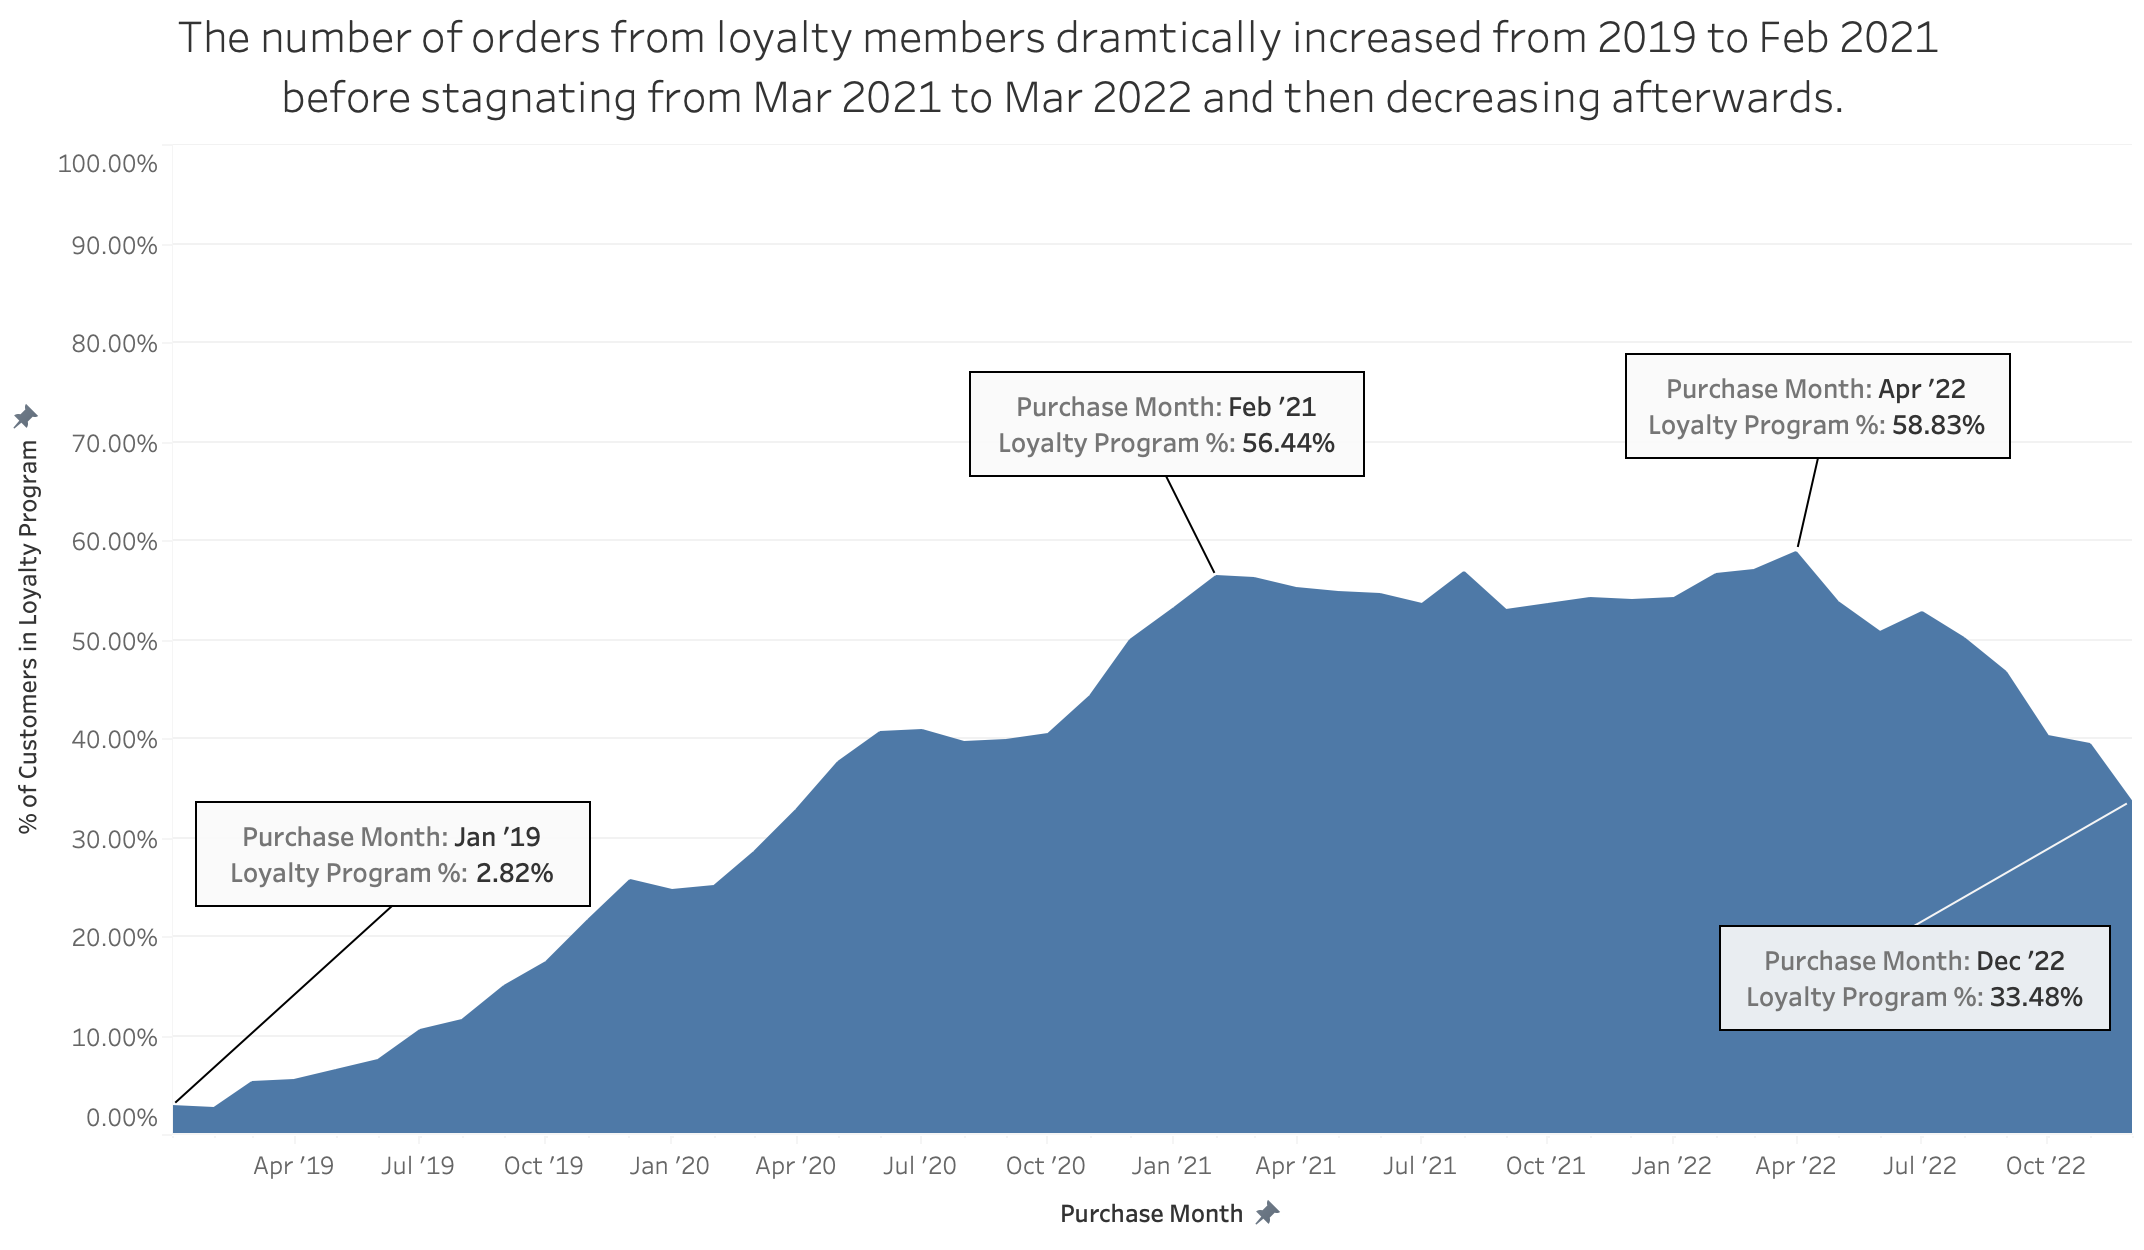
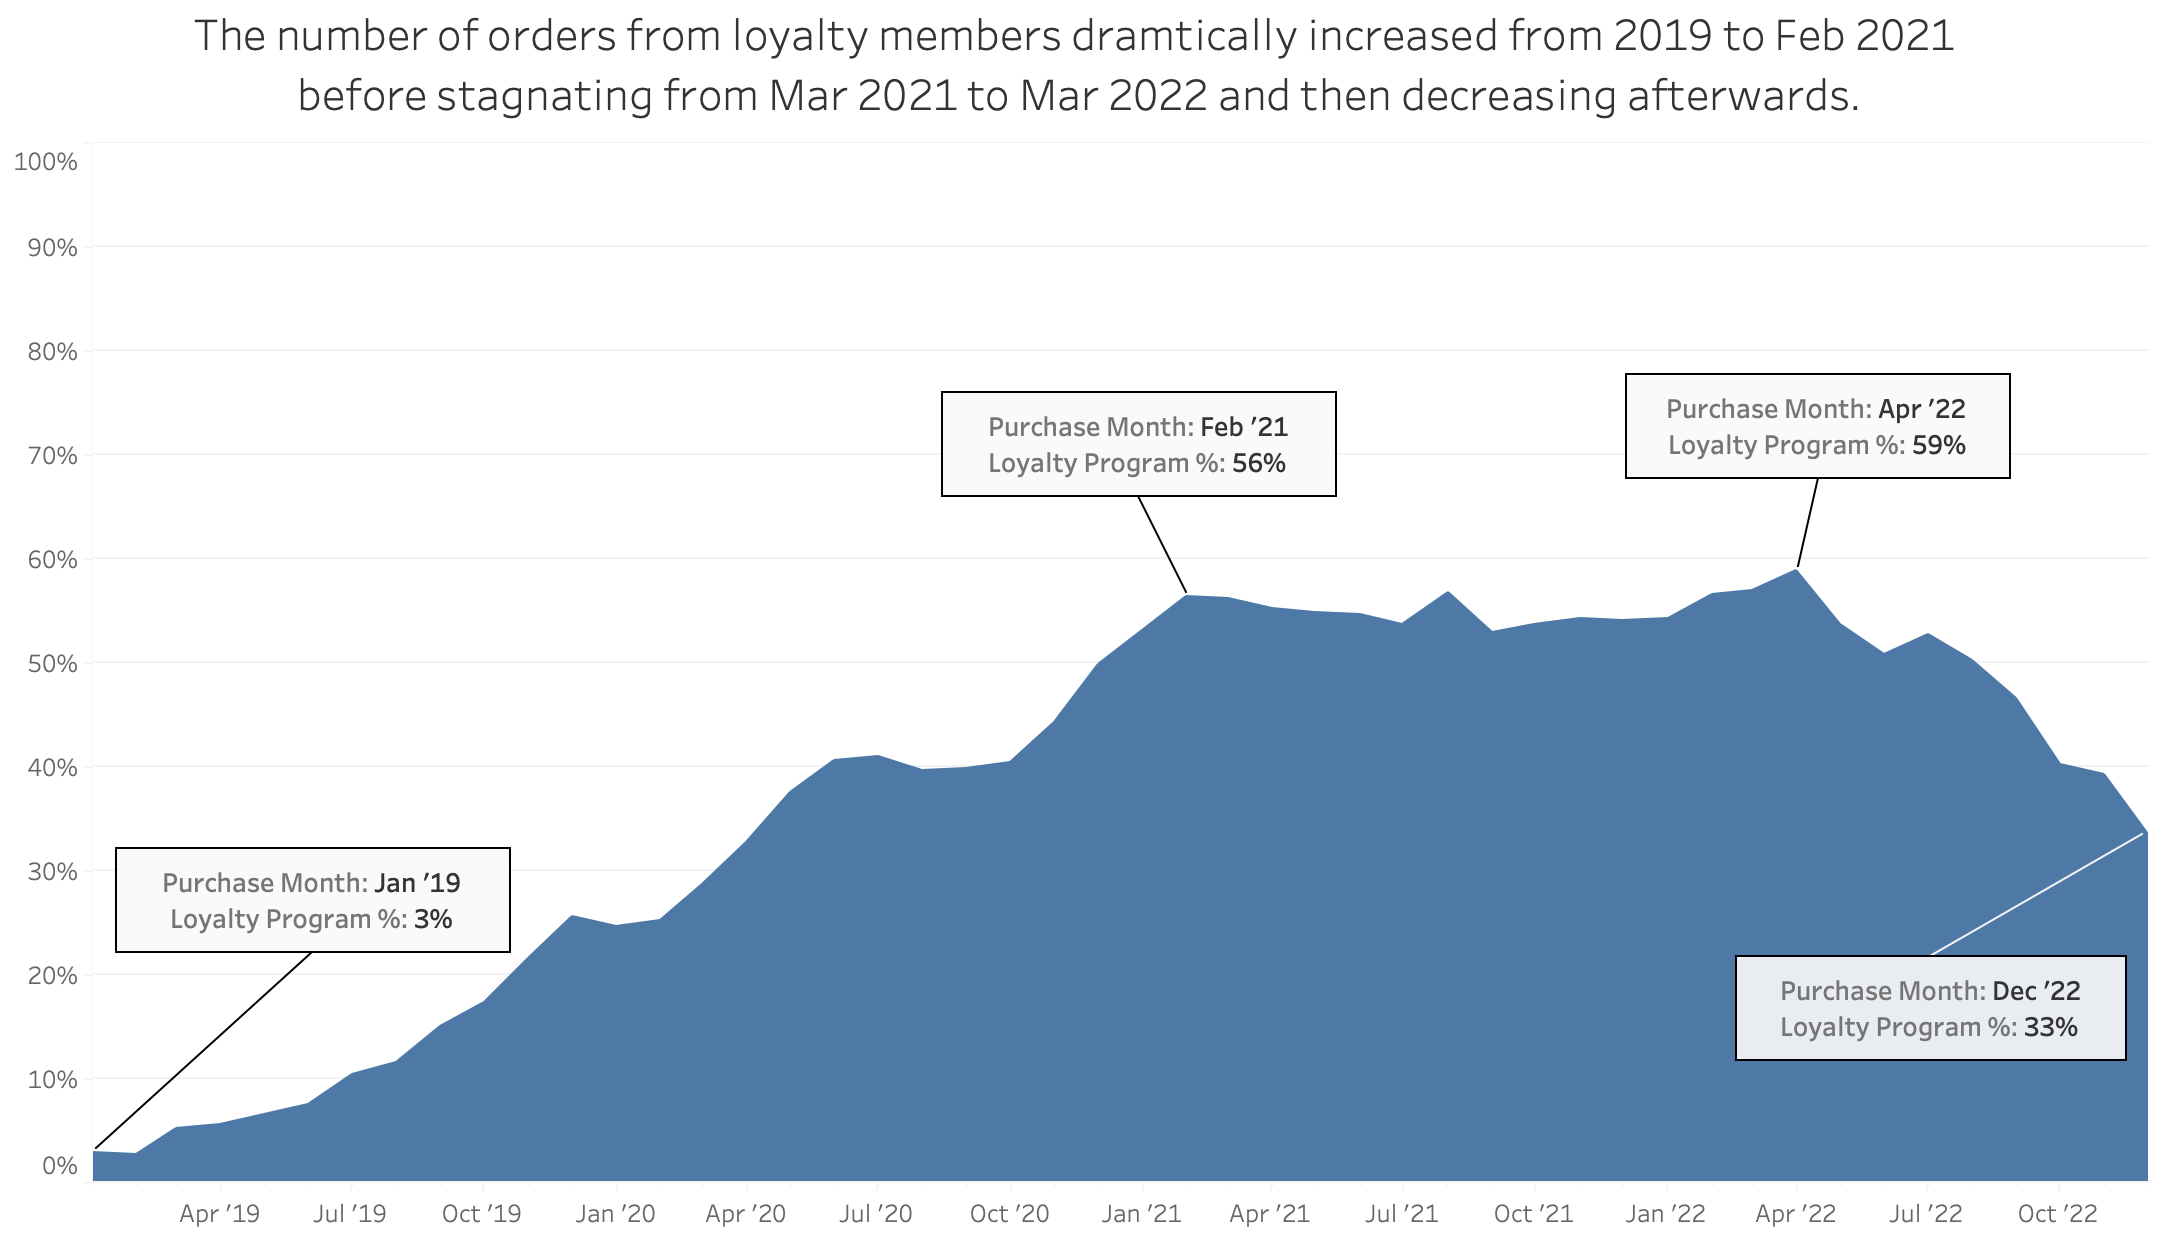
clean up pictures

diff --git a/README.md b/README.md
@@ -42,6 +42,9 @@ This report will cover the following metrics:
 - **Refund rate** - (Refunded Order Count / Order Count)
 - **MoM and YoY growth** - ((Current - Prior) / Prior)
 
+# Executive Summary
+![Overall Sales Trends](./assets/overall_sales.png)
+
 ### Overall Trends
 * Byte's Basket saw a drastic spike in sales from 2019 to 2020 with the increase impacting across Total Sales, Order Count, and Average Order Value. However, after 2020, Byte's Basket failed to maintain that increase and has instead normalized back to usual numbers before COVID. 
 
@@ -71,7 +74,7 @@ This report will cover the following metrics:
 # Insights Deep Dive
 
 ## Monthly and Yearly Growth Rates
-![Monthly Growth Rates for Total Sales](./assets/growth_rates.png)
+![Monthly Growth Rates for Total Sales](./assets/mom_growth.png)
 
 ### Growth Rates in Sales Metrics
 
@@ -123,7 +126,7 @@ This report will cover the following metrics:
 
 
 ## Refund Rates for Apple Products
-![Yearly Refund Rates](./assets/refund_rates.png)
+![Yearly Refund Rates](./assets/product_refunds.png)
 
 
 ### Yearly Refund Rates for Apple Products
